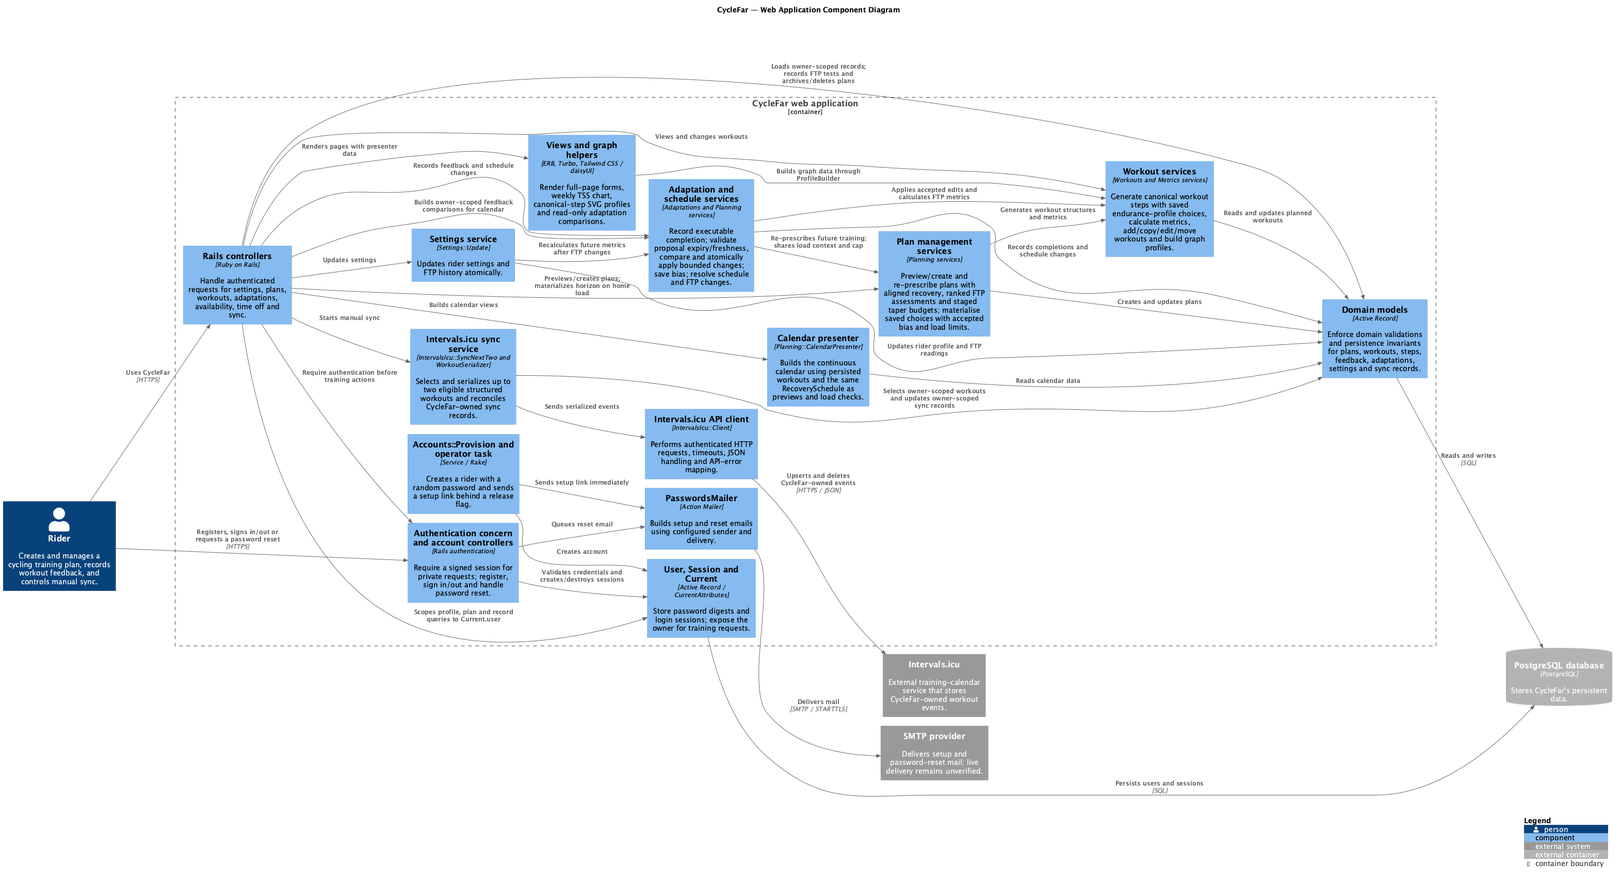
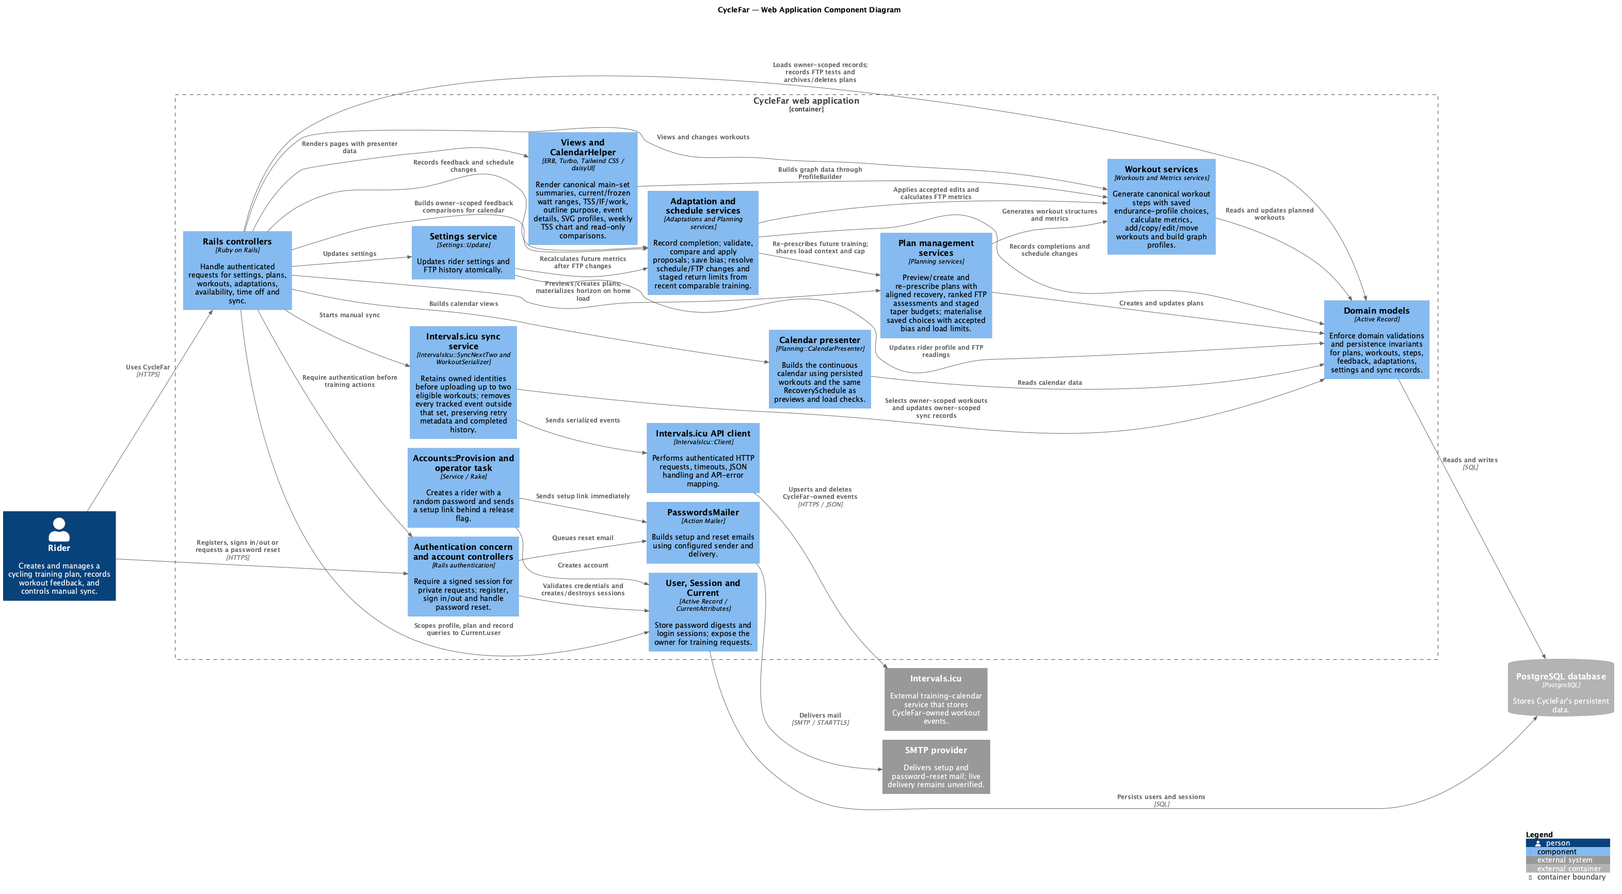
Refresh documentation and diagrams

diff --git a/docs/diagrams/README.md b/docs/diagrams/README.md
@@ -1,24 +1,25 @@
 # CycleFar architecture diagrams
 
-These diagrams describe the implemented application, including owner-scoped requests and sync, account access, preview isolation, feedback comparisons, accepted progression bias and optional material-change replanning. The views reflect changes through CYF-11 and were reviewed on 2026-10-04, including shared recovery scheduling, ranked FTP assessments and staged taper budgets. They do not certify all V1 requirements; outstanding behaviour is tracked in Jira.
+These diagrams describe the implemented application, including owner-scoped requests and sync, account access, preview isolation, feedback comparisons, accepted progression bias and optional material-change replanning. The views reflect changes through CYF-14 and were reviewed on 2026-10-04, including shared recovery scheduling, ranked FTP assessments, staged taper budgets, return-stage power limits, canonical calendar summaries and complete tracked-event reconciliation. They do not certify all V1 requirements; outstanding behaviour is tracked in Jira.
 
 | View (PlantUML source) | PNG | Scope |
 | --- | --- | --- |
 | [System context](context-cyclefar-system.puml) | [PNG](png/context-cyclefar-system.png) | Rider, owner-scoped CycleFar, Intervals.icu and SMTP provider |
 | [Containers](container-cyclefar.puml) | [PNG](png/container-cyclefar.png) | Rails/Puma with supervised Solid Queue, PostgreSQL databases and SMTP provider |
-| [Application components](component-cyclefar-application.puml) | [PNG](png/component-cyclefar-application.png) | Authentication, controlled account access, request handling, presentation, domain services and persistence |
+| [Application components](component-cyclefar-application.puml) | [PNG](png/component-cyclefar-application.png) | Authentication, account access, canonical calendar summaries, domain services and persistence |
 | [Plan generation](component-cyclefar-plan-generation.puml) | [PNG](png/component-cyclefar-plan-generation.png) | Session draft, aligned recovery, ranked assessments, taper budgets, confirmation and saved generation choices during materialisation |
-| [Plan changes](component-cyclefar-plan-change.puml) | [PNG](png/component-cyclefar-plan-change.png) | Manual edits, completion, bounded feedback, before/after comparison, atomic acceptance, schedule and FTP updates |
-| [Intervals.icu sync](component-cyclefar-intervals-icu-sync.puml) | [PNG](png/component-cyclefar-intervals-icu-sync.png) | Selection, serialization, HTTP calls and local reconciliation metadata |
+| [Plan changes](component-cyclefar-plan-change.puml) | [PNG](png/component-cyclefar-plan-change.png) | Manual edits, completion, bounded feedback, atomic acceptance, comparable pre-break progression, staged return limits and FTP updates |
+| [Intervals.icu sync](component-cyclefar-intervals-icu-sync.puml) | [PNG](png/component-cyclefar-intervals-icu-sync.png) | Selection, serialization, pre-upload identities, confirmed metadata and all owned stale-event cleanup |
 
 The component views answer **which parts own a responsibility**. For request order and read/write boundaries, follow the sequence views:
 
 | Sequence view (PlantUML source) | PNG | Follow this flow |
 | --- | --- | --- |
 | [Create a plan](sequence-cyclefar-plan-creation.puml) | [PNG](png/sequence-cyclefar-plan-creation.png) | Review an owner-bound preview with shared scheduling and taper budgets; confirm, persist generation choices and materialize the 14-day horizon. |
-| [Change future training](sequence-cyclefar-future-replanning.puml) | [PNG](png/sequence-cyclefar-future-replanning.png) | Rebuild affected future prescriptions with assessment exclusions and saved taper context, then materialize nearby detail. |
+| [Change future training](sequence-cyclefar-future-replanning.puml) | [PNG](png/sequence-cyclefar-future-replanning.png) | Rebuild affected prescriptions with assessment exclusions, taper context and comparable pre-break return limits, then materialize nearby detail. |
 | [Feedback proposal](sequence-cyclefar-feedback-proposal.puml) | [PNG](png/sequence-cyclefar-feedback-proposal.png) | Completion saves an immutable snapshot; feedback creates an optional proposal; read-only comparison precedes acceptance or rejection. |
 | [Material Change Workout proposal](sequence-cyclefar-material-change-proposal.puml) | [PNG](png/sequence-cyclefar-material-change-proposal.png) | Change Workout immediately saves the selected workout; a separate optional acceptance replans the bounded following block. |
+| [Manual Intervals.icu reconciliation](sequence-cyclefar-intervals-icu-sync.puml) | [PNG](png/sequence-cyclefar-intervals-icu-sync.png) | Retain identities before upload, save confirmed metadata, clean every stale owned event, and preserve retry metadata on failure. |
 
 Read the [application component view](component-cyclefar-application.puml) for orientation, then the sequence that matches the rider action. The two proposal sequences are separate because feedback proposes edits to upcoming workouts, while a material Change Workout has already saved its source workout before the optional replan is offered.
 
@@ -30,7 +31,9 @@ The generation diagram's session component represents the Rails session draft, w
 
 Authentication gates private application controllers, while the homepage offers registration and sign-in. Profiles, plans and sync records have required user ownership; training lookups, preview drafts and sync reconciliation use that owner. Controlled provisioning is gated, sign-out is visible, and reset/setup mail uses configured SMTP. Live SMTP delivery remains unverified; see [ACCOUNT_ACCESS.md](../ACCOUNT_ACCESS.md).
 
-The sync view describes the current cleanup scope, which excludes linked missed/completed/past events. Remote operations and the local metadata transaction are not one atomic transaction. The plan-change view shows regular structured feedback targets in today through day 13, comparable-family fallback, nearby hard-session and difficult-easy reductions, read-only comparisons and acceptance using the same load-limited prescriptions. ProposalCreator saves a seven-day deadline and a digest of relevant canonical inputs. ProposalFreshness enforces expiry, active-plan status and unchanged relevant prescriptions/schedule/load before comparison and acceptance; stale, expired or unverifiable proposals offer dismissal. FTP-only metric recalculation does not invalidate them. Acceptance applies the exact load-limited canonical definition shown in the comparison and rolls back all edits if any step fails. Accepted global bias affects later materialisation; per-family stored bias remains unimplemented.
+The sync views show reconciliation of every tracked event owned by the rider outside the next-two set, including missed/completed, past-moved, deleted and previous-plan workouts. Owned identities are saved before HTTP; confirmed uploads are saved before cleanup. An uncertain upload retains its identities, while cleanup failure retains both confirmed upload metadata and stale identities for retry. Remote operations and local transactions are separate. Completed local history and remote activities remain unchanged (CYF-14).
+
+The plan-change view shows regular structured feedback targets in today through day 13, comparable-family fallback, nearby hard-session and difficult-easy reductions, read-only comparisons and acceptance using the same load-limited prescriptions. ProposalCreator saves a seven-day deadline and a digest of relevant canonical inputs. ProposalFreshness enforces expiry, active-plan status and unchanged relevant prescriptions/schedule/load before comparison and acceptance; stale, expired or unverifiable proposals offer dismissal. FTP-only metric recalculation does not invalidate them. Acceptance applies the exact load-limited canonical definition shown in the comparison and rolls back all edits if any step fails. Accepted global bias affects later materialisation; per-family stored bias remains unimplemented.
 
 AWS Terraform/CloudFormation templates are separate infrastructure preparation. They are documented in [infra/README.md](../../infra/README.md), not represented as running containers here. The container view groups the web server and its Puma-supervised Solid Queue worker into the current Kamal deployment unit. The worker delivers queued password-reset mail; it does not generate training or sync Intervals.icu.
 
@@ -44,11 +47,15 @@ Ordinary and missed Move share `Workouts::Mover` and `DestinationValidator`. Eli
 
 After hard-week load enforcement, `PlanBuilder` budgets taper stages against the highest comparable generated hard-week TSS. A long taper's earlier stage targets 75% of peak, prorated by its days; the final seven dates through the event target 50%, including for non-Sunday events. Early/final intensity work factors are 75%/60%, retaining normal power bands and positive 30-second segments. Duration adjusts toward the budget without adding training dates; the 30-minute minimum, event and opener remain fixed, so sparse availability can make the approximate target infeasible. Saved `load_adjustments.main_set_factor` and fitted progression ceilings survive outline persistence, horizon generation and post-break recalculation; positive bias cannot escalate saved tapered sets. Legacy taper outlines retain the level-2 ceiling fallback. The change does not bulk rewrite existing plans.
 
+`PreBreakProgression` selects the latest planned/completed regular session in the comparable intensity family, excluding missed and special records and defaulting to level 1. `ReturnRamp` applies 60/70/80/100% duration factors with the 30-minute minimum; first/second-stage main targets are 45–60%/55–68% FTP, then level-1 Tempo on intensity days or Endurance on easy days. The final stage returns to the scheduled subtype one level below the baseline, with weekly progression resuming from that reduced level after the ramp. Holiday/Event/Other resume from the baseline without the reduction. `TargetBandLimiter` constrains main targets and caps every step endpoint; saved return bands/stages survive profile sampling and materialisation. Proposal freshness uses the same comparable baseline (CYF-12).
+
+`CalendarHelper` derives repeated main/activation summaries and watt ranges from canonical steps, including separate under/over efforts and ramp endpoints. Planned cards use current owner FTP; completed cards use frozen per-step watts. Views show TSS/IF/work, outline purpose and supplied event distance/elevation/duration. These summaries remain presentation, never training inputs (CYF-13).
+
 ## Rendering and maintenance
 
 The `.puml` files are the maintained sources; PNG exports live in [`png/`](png/). Regenerate the PNG whenever its source changes. The source filenames determine export filenames, and all six C4 views use PlantUML's built-in Smetana layout engine, so Graphviz is not required.
 
-The C4 sources load C4-PlantUML from the upstream URL in their `!include`, so rendering those views needs access to those includes (or a locally configured copy). The four sequence sources are self-contained. The upstream `master` reference is unpinned and may change C4 rendering independently of this repository.
+The C4 sources load C4-PlantUML from the upstream URL in their `!include`, so rendering those views needs access to those includes (or a locally configured copy). The five sequence sources are self-contained. The upstream `master` reference is unpinned and may change C4 rendering independently of this repository.
 
 With a local PlantUML CLI installation, run from the repository root:
 
@@ -66,4 +73,4 @@ PlantUML resolves this relative output directory beside each source, producing `
 
 When updating a view, compare it with the named controllers/services, routes and persistence schema. Check relationship endpoints, render the sources and inspect the resulting images. Keep implementation limits in diagram notes and this guide aligned with [ARCHITECTURE.md](../ARCHITECTURE.md), especially after proposal, move, completion or horizon changes.
 
-Validation on 2026-10-04 rendered all ten views to PNG and temporary SVG with PlantUML 1.2026.8, the previously downloaded C4 includes and the built-in Smetana layout engine. The exports were checked for rendering errors and visually reviewed; source/PNG links were checked.
+Validation on 2026-10-04 rendered all eleven views to PNG and temporary SVG with PlantUML 1.2026.8, the previously downloaded C4 includes and the built-in Smetana layout engine. The exports were checked for rendering errors and visually reviewed; source/PNG links were checked.

diff --git a/docs/REQUIREMENTS.md b/docs/REQUIREMENTS.md
@@ -6,7 +6,9 @@ Requirement IDs are intended to be referenced in RSpec descriptions and implemen
 
 Rails authentication was generated after the original V1 requirements. The application now has a public homepage with Sign In and Register, email/password self-registration, sign-out, password-reset routes and a default authentication check on private controllers. Profiles, plans and sync records have required user ownership in PostgreSQL. Controlled provisioning, configured SMTP and an automated two-rider matrix are implemented; live mail verification remains open. The `USR-*` requirements below describe the independent-rider release; see [ARCHITECTURE.md](ARCHITECTURE.md) for current state.
 
-Feedback adaptation now includes owner-scoped Current / Proposed comparisons (FBK-002), targets bounded to today through day 13, comparable-family fallback and nearby hard-session reductions. Accepted global progression bias feeds later horizon generation (GEN-001), subject to duration fitting, reduced-load ceilings and the comparable-week load cap (LOAD-002). Proposal expiry and relevant canonical-input staleness are enforced for feedback and material-change replans. Ordinary and missed-workout moves regenerate across phase boundaries or distances greater than seven days, preserve eligible short moves and recheck destination load (CYF-7). Manual completion now includes executable openers and individually materialised overdue outlines, with coherent current-FTP completion snapshots and the next-scheduled-workout late-feedback guard (CYF-9). Per-family bias and all stale linked sync-event cases (ICU-001) remain gaps. CYF-13 adds canonical main-set summaries, target watt ranges and work to structured cards, purpose to outlines, and supplied event distance, elevation and expected duration. These notes do not replace the acceptance criteria below.
+Feedback adaptation now includes owner-scoped Current / Proposed comparisons (FBK-002), targets bounded to today through day 13, comparable-family fallback and nearby hard-session reductions. Accepted global progression bias feeds later horizon generation (GEN-001), subject to duration fitting, reduced-load ceilings and the comparable-week load cap (LOAD-002). Proposal expiry and relevant canonical-input staleness are enforced for feedback and material-change replans. Ordinary and missed-workout moves regenerate across phase boundaries or distances greater than seven days, preserve eligible short moves and recheck destination load (CYF-7). Manual completion includes executable openers and individually materialised overdue outlines, with coherent current-FTP completion snapshots and the next-scheduled-workout late-feedback guard (CYF-9). Per-family progression bias remains a gap.
+
+Ordered weekly load reductions, shared recovery scheduling, ranked FTP assessments and staged taper budgets are implemented (CYF-10/11). Return ramps save stage power limits and resume from the latest comparable pre-break session (CYF-12, OFF-001). Structured calendar cards show canonical main-set summaries, target watt ranges and work; outlines show purpose, and event cards show supplied distance, elevation and expected duration (CYF-13). Manual sync reconciles all of the rider's tracked events outside the next-two set, including missed/completed, past-moved, deleted and previous-plan workouts, retaining owned identities across uncertain uploads and cleanup failures (CYF-14, ICU-001). These notes do not replace the acceptance criteria below.
 
 ## 0. Product identity
 

diff --git a/README.md b/README.md
@@ -17,14 +17,18 @@ snapshots.
   Rails-generated authentication, with independent rider accounts.
 - A deterministic, versioned workout engine for endurance, tempo, Sweet Spot,
   threshold, VO2 max, over-under and recovery sessions.
-- A continuous calendar with workout details, editable future workouts and
-  inline power-profile graphs.
+- A continuous calendar with canonical main-set summaries, watt ranges,
+  TSS/IF/work, event details, editable future workouts and inline power-profile
+  graphs. Later outlines show their purpose; weekly totals feed a TSS chart.
+- Generated weekly load limits, aligned recovery weeks, ranked FTP assessments
+  and staged taper budgets that retain the target event and opener.
 - Completion feedback, overdue and missed-workout resolution, and explicit
   adaptation proposals with owner-scoped before/after comparisons and a
   14-day target window. Proposals enforce seven-day expiry and reject stale
   inputs; accepted progression bias affects later generation.
 - Availability changes, planned time off and a gradual return after illness or
-  recovery time.
+  recovery time, with saved stage power limits and progression based on the
+  latest comparable pre-break session.
 - FTP history and recalculation of future workout watt targets without changing
   completed workouts.
 - Manual Intervals.icu sync for the next two executable structured workouts.
@@ -123,10 +127,12 @@ performed, including openers, and uses stable `cyclefar-workout-<id>` external
 IDs. It excludes FTP tests and exports fewer than two when fewer are eligible.
 It neither imports rides nor changes unrelated Intervals.icu events.
 
-Current cleanup handles deleted workouts and still-planned future workouts that
-leave the next-two set. Linked workouts subsequently marked missed/completed or
-moved into the past are not yet included in cleanup. See the
-[integration guide](docs/INTERVALS_ICU.md) for reconciliation and API-contract limits.
+Sync removes every tracked event owned by the rider outside the next-two set,
+including missed/completed, past-moved, deleted and previous-plan workouts.
+It saves owned identities before upload and retains cleanup metadata on failure
+so another manual sync can retry safely. Completed local history stays frozen.
+See the [integration guide](docs/INTERVALS_ICU.md) for reconciliation and
+API-contract limits.
 
 ## Deployment
 
@@ -230,9 +236,10 @@ adapter specs stub HTTP rather than calling the live API.
 
 Requirements and training rules describe intended V1 behaviour. Architecture,
 data-model and UX implementation notes describe the current code and identify
-remaining differences, including per-family progression bias, complete calendar
-card fields and stale linked Intervals.icu event cleanup. Proposal expiry and
-stale-input checks are implemented.
+remaining differences, including per-family progression bias and the proposed
+workout modals and replacement previews. Calendar card fields,
+stale linked Intervals.icu event cleanup, proposal expiry and stale-input checks
+are implemented.
 
 ## License
 

diff --git a/docs/ARCHITECTURE.md b/docs/ARCHITECTURE.md
@@ -64,6 +64,8 @@ Forecast generation always passes an explicit variation. Initial endurance mater
 
 `Metrics::WorkoutCalculator` calculates representative one-second power, NP, IF, TSS and work from canonical steps plus FTP. `Workouts::ProfileBuilder` supplies percentage-based graph data. `CalendarHelper` renders inline SVG with power-zone colours; the detail graph uses the same canonical data at a larger size.
 
+`CalendarHelper#workout_main_set_entries` groups repeated canonical main/activation steps for calendar summaries, retaining separate under/over efforts and both ramp endpoints. Planned watt ranges use owner FTP; completed ranges come from the immutable per-step snapshot. Home views show TSS/IF/work for structured cards, purpose for outlines, and supplied event distance/elevation/duration. Card summaries are presentation derived from canonical steps, not generation inputs (CYF-13).
+
 `Workouts::ManualEditor` handles Same, Easier, Harder, Shorter, Longer, Change and accepted progression adjustments. It replaces steps and metrics transactionally and reports before/after values plus whether the documented material-change thresholds were crossed. A material Change creates a persisted optional proposal through `Planning::MaterialChangeProposal`; `Planning::MaterialChangeReplanner` treats that changed workout as fixed and re-prescribes only the bounded following 14-day block on acceptance. `Workouts::Creator` validates an empty, in-plan, non-event, non-time-off destination and generates a structured workout (regular workouts start at level 1). `Workouts::Copier` copies regular planned structured workouts, retaining canonical steps and recalculating metrics with current FTP.
 
 `ManualEditor#preview` returns an in-memory definition and metrics without persistence. `apply!` uses the same path, including explicit variation, level clamping and exact-duration fitting, so feedback comparisons match accepted results when inputs remain unchanged.
@@ -164,5 +166,6 @@ Sequence views show request order and the boundaries between in-memory previews,
 - [Change future training](diagrams/sequence-cyclefar-future-replanning.puml)
 - [Feedback proposal](diagrams/sequence-cyclefar-feedback-proposal.puml)
 - [Material Change Workout proposal](diagrams/sequence-cyclefar-material-change-proposal.puml)
+- [Manual Intervals.icu reconciliation](diagrams/sequence-cyclefar-intervals-icu-sync.puml)
 
 See the [diagram guide](diagrams/README.md) for scope, implementation limitations and rendering requirements.

diff --git a/docs/DATA_MODEL.md b/docs/DATA_MODEL.md
@@ -190,7 +190,7 @@ CYF-12 saves `load_adjustments.return_target_band` for return-stage main power r
 
 Material-replan proposals with pre-break fingerprints from the previous baseline algorithm become stale and require dismissal/recreation. Their payload format remains readable; acceptance rechecks the current comparable baseline.
 
-The plan's existing global `intensity_bias` is consumed once when eligible intensity outlines enter the horizon. Missing bias means zero. This is not the per-family/subtype feedback state described in TRAINING_ENGINE.md §32; that granularity remains unimplemented. Existing pending proposal payloads remain compatible.
+The plan's existing global `intensity_bias` is consumed once when eligible intensity outlines enter the horizon. Missing bias means zero. This is not the per-family/subtype feedback state described in TRAINING_ENGINE.md §32; that granularity remains unimplemented. Existing proposal payload formats remain readable, subject to expiry and canonical-input freshness checks.
 
 ## WorkoutStep
 

diff --git a/docs/INTERVALS_ICU.md b/docs/INTERVALS_ICU.md
@@ -138,6 +138,8 @@ Digests are stored for reference; repeat sync still upserts both selected workou
 
 CycleFar's tracked remote calendar-event set matches the next-two set after a successful sync. A moved workout still selected is updated under its original external ID; every tracked event outside the set is removed, even when its former workout is completed or belongs to an archived plan. Only owned calendar events are deleted: there are no activity/history API calls, and completed local workouts, steps, snapshots and feedback remain unchanged (CYF-14).
 
+The [manual sync sequence](diagrams/sequence-cyclefar-intervals-icu-sync.puml) shows the separate local transactions, remote calls and failure paths. With no eligible workouts, upload is skipped and all stale owned events are still reconciled.
+
 ## Partial failure
 
 Prefer one bulk request for the two upserts when possible.

diff --git a/docs/UX.md b/docs/UX.md
@@ -339,3 +339,5 @@ If reason = Illness or Recovery:
 - additional field for user-selected return-to-training duration (days/weeks; normalise internally to days).
 
 After save, the app confirms that time off was added and future training replanned. It does not yet show a per-workout change summary. Holiday, Event and Other do not use a return ramp.
+
+Illness/Recovery return workouts show their return-stage purpose. The engine applies saved stage power limits and reduced durations, then resumes intensity progression from one level below the latest comparable pre-break session. Holiday/Event/Other resume from that comparable baseline without the reduction. See [TRAINING_ENGINE.md §39](TRAINING_ENGINE.md#39-time-off) for the staged prescription rules.

diff --git a/docs/PRODUCT.md b/docs/PRODUCT.md
@@ -73,7 +73,7 @@ Current feedback proposals compare each affected workout before and after at the
 
 ### Near-term specificity, long-term flexibility
 
-Only the next 14 days are fully structured. The rest of the plan stores purpose/type/duration/phase so future detailed workouts can reflect newer FTP and feedback.
+Automatic detail generation covers today through day 13. Later workouts normally store purpose/type/duration/phase and forecast load so future detail can reflect newer FTP and feedback. Explicit Add/Copy, retained moved structures and individual due/overdue completion are exceptions to the automatic horizon.
 
 ### Explain important changes
 
